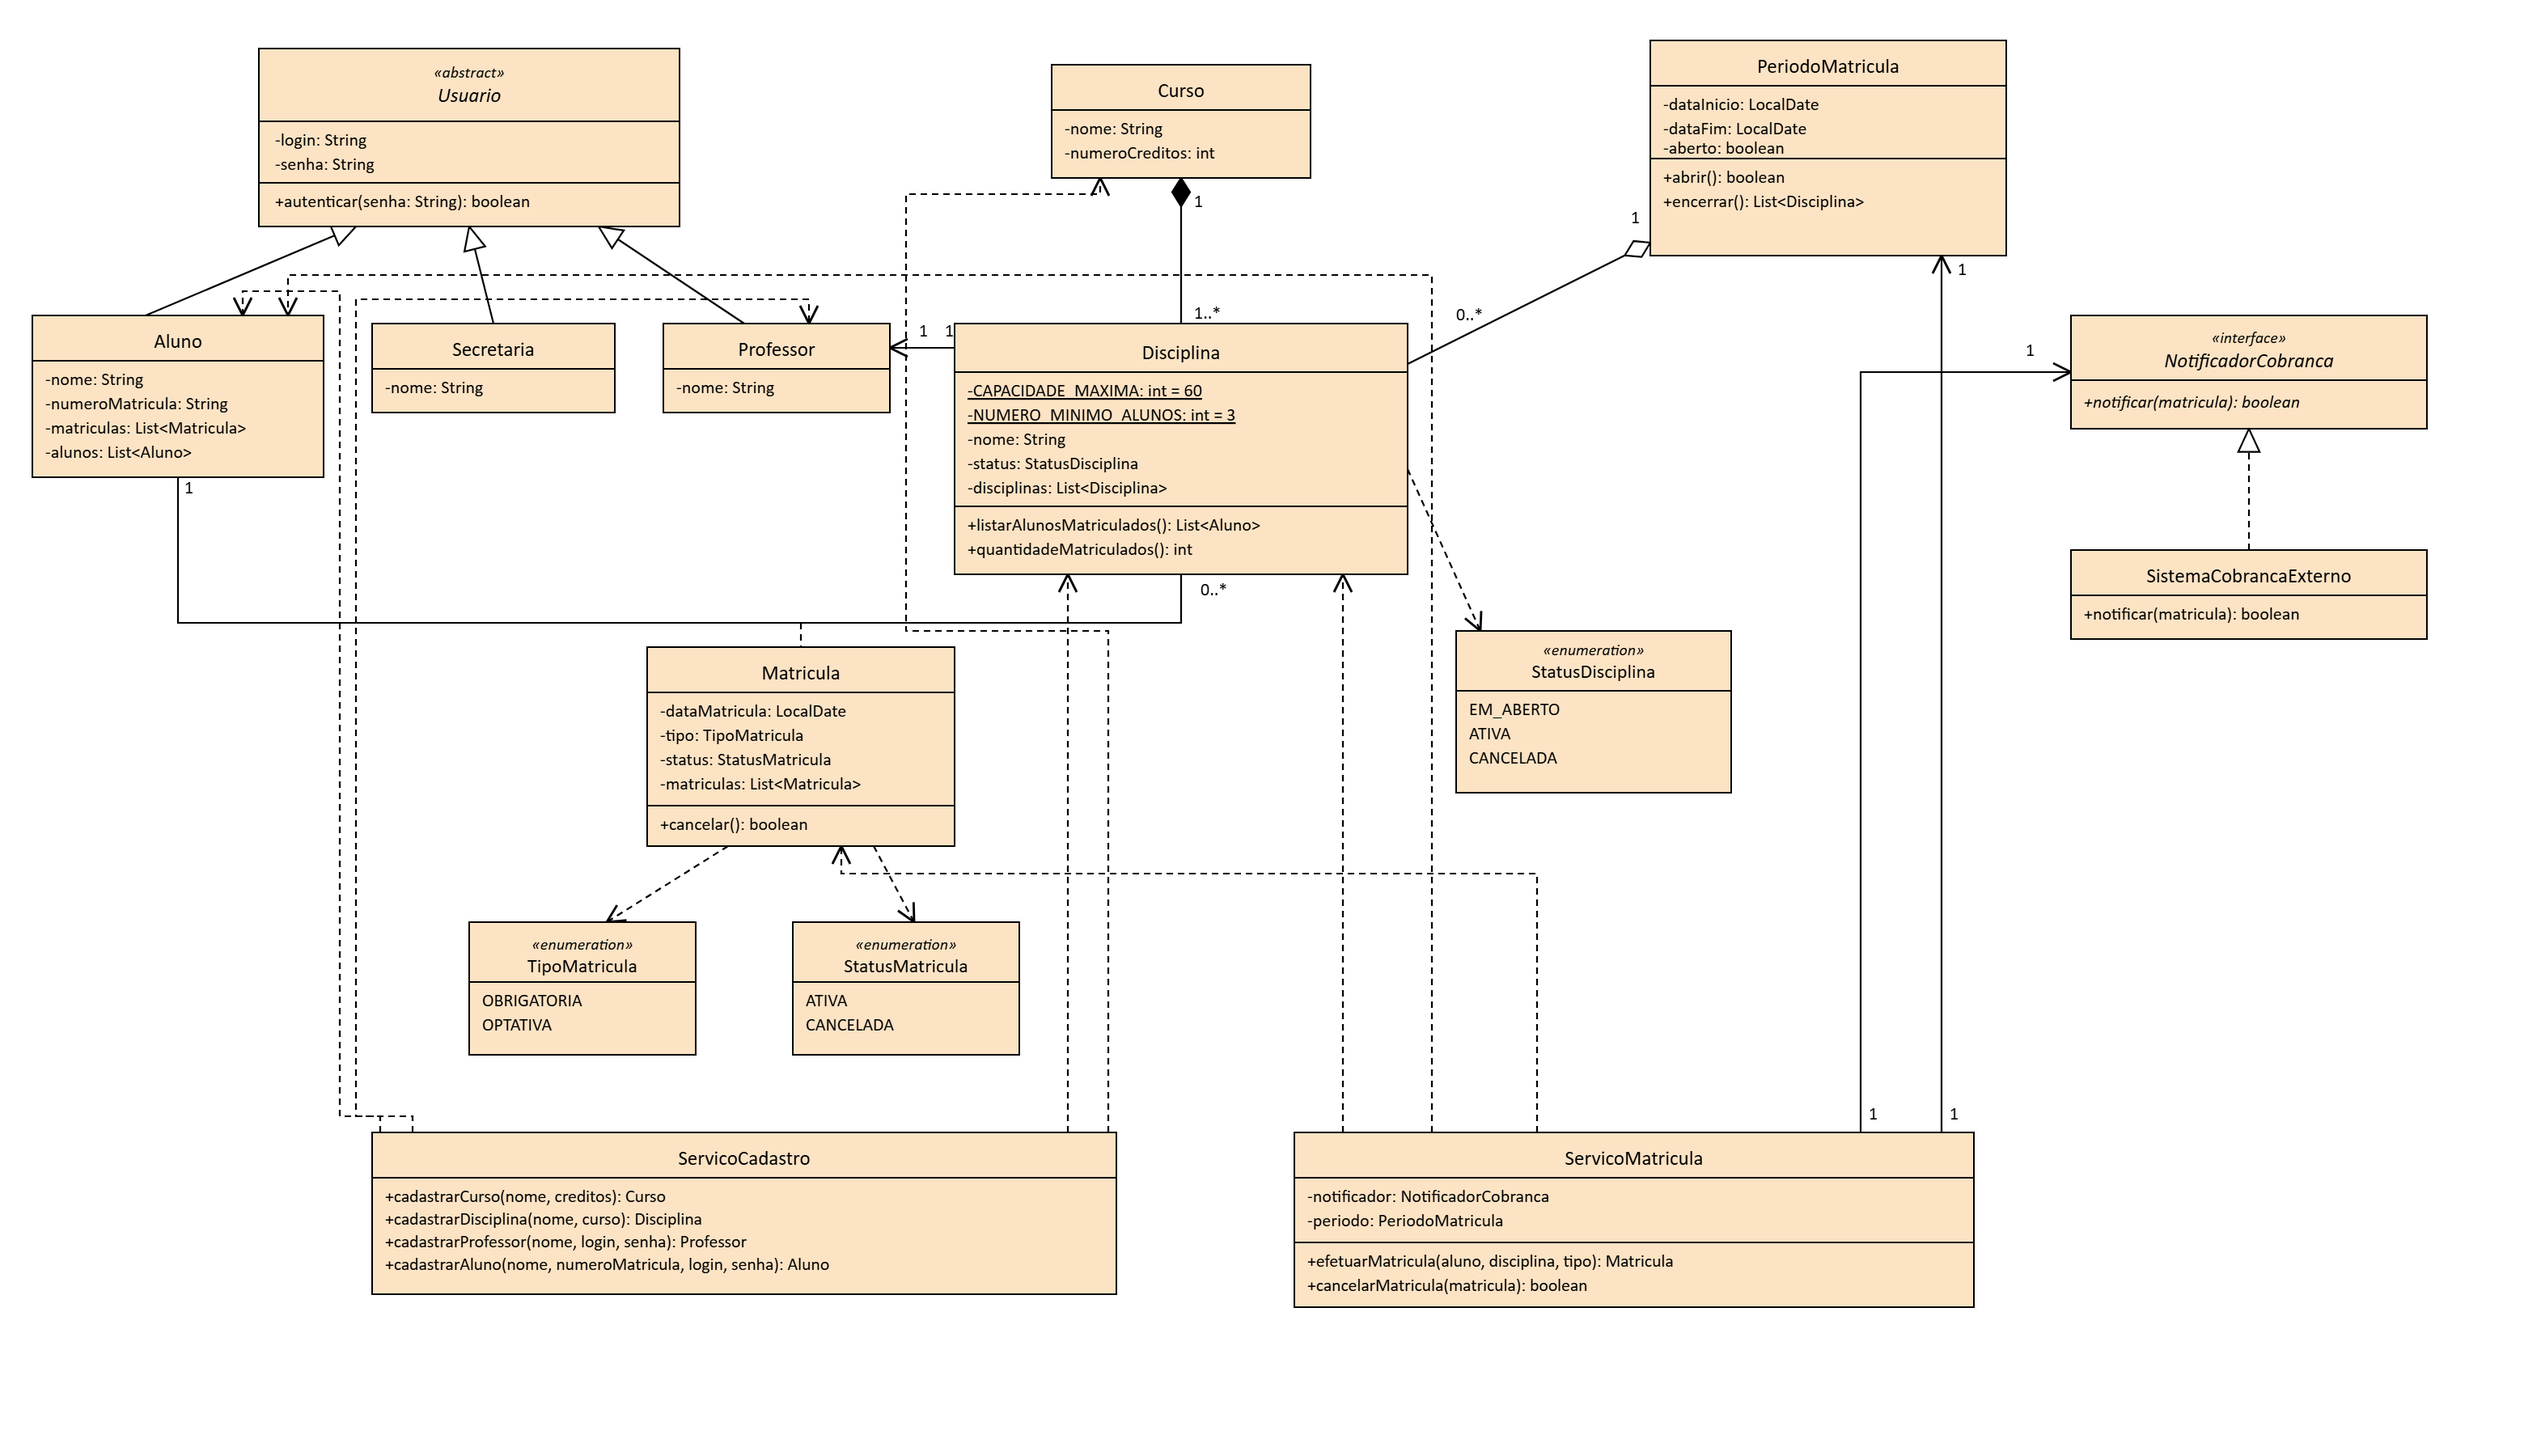
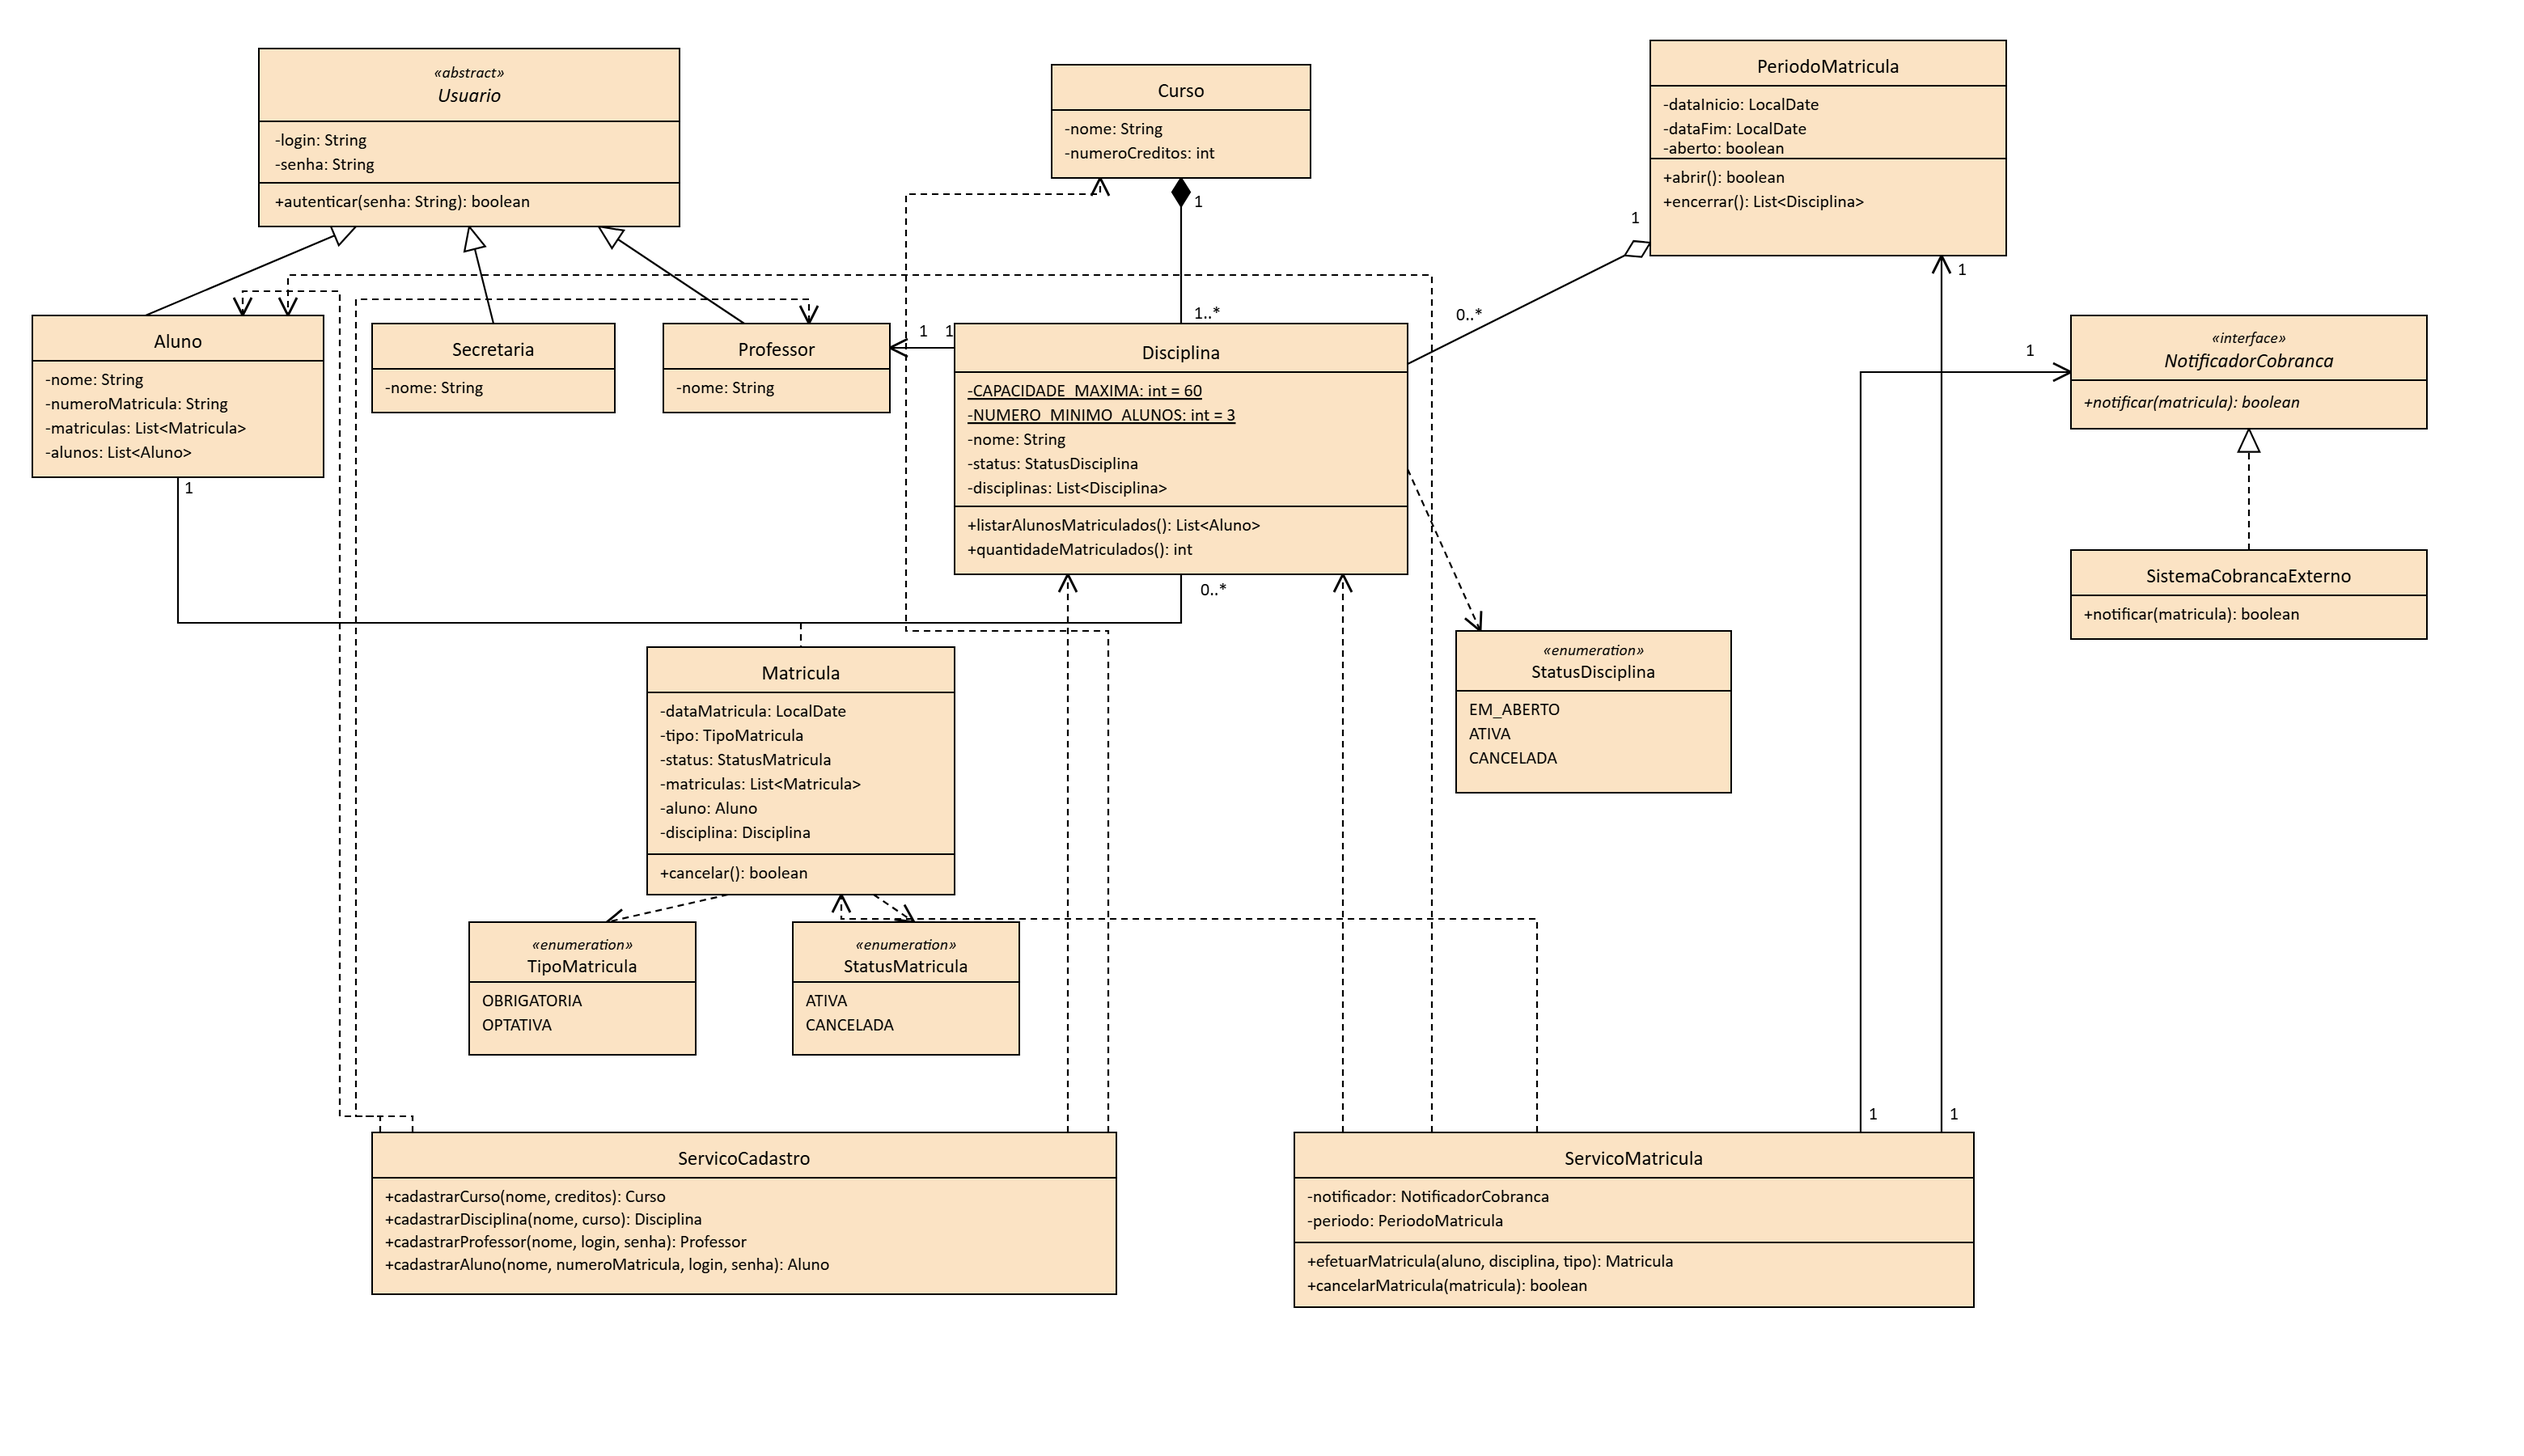
fix: adiciona aluno e disciplina como atributos de Matricula
Sem essas referencias a classe de associacao nao tem como saber a quem
pertence cada matricula, o que impede implementar as regras de negocio
na Sprint 3. Diagrama atualizado junto.

Changed region(s): [[0.2487, 0.56, 0.4042, 0.6222]]

diff --git a/src/matriculas/models/Matricula.java b/src/matriculas/models/Matricula.java
@@ -11,6 +11,8 @@ public class Matricula {
     private TipoMatricula tipo;
     private StatusMatricula status;
     private List<Matricula> matriculas;
+    private Aluno aluno;
+    private Disciplina disciplina;
 
     public boolean cancelar() {
         // TODO: implementar
